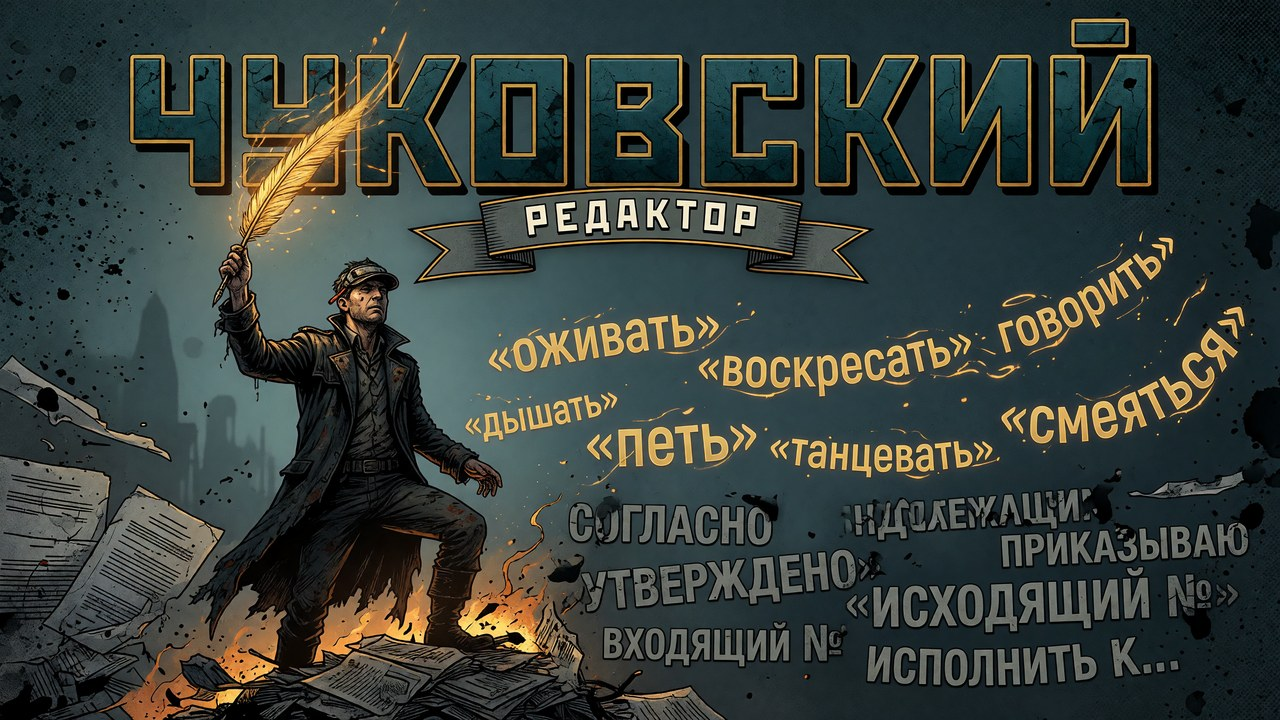
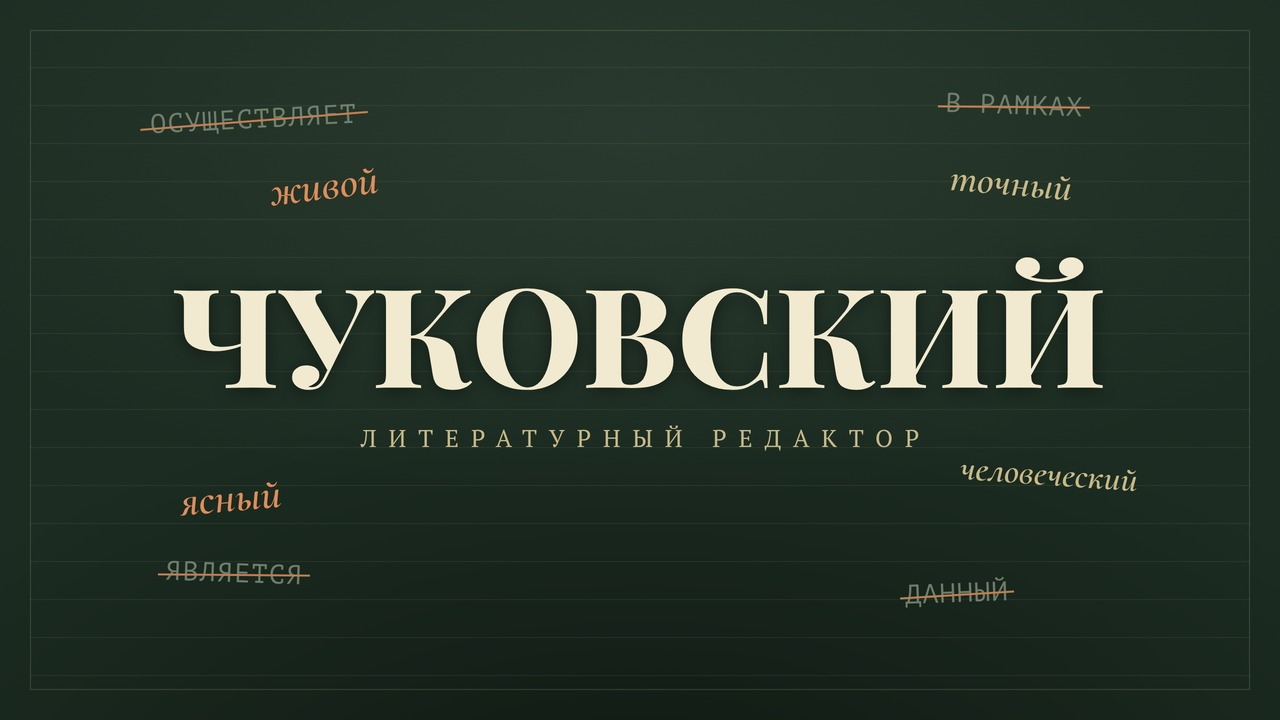
assets: тёмно-зелёная типографская обложка Чуковского + новый hero
Собственная палитра скила (бутылочно-зелёный «переплёт» + разлиновка
рукописи + коралл/золото) — отстраивает Чуковского от Розенталя (navy+red)
и Мильчина (нейтральный крем), оставаясь в общей типографской семье.

- banner.jpg — мастхед «правленая рукопись» (смысл · ясность · голос)
- hero.jpg — комикс заменён на разброс «живые слова vs мёртвые»
- social-preview.jpg — минимал 1280×640 (четыре оси) под GitHub Social

diff --git a/README.md b/README.md
@@ -1,5 +1,5 @@
 <p align="center">
-  <img src="assets/banner.jpg" alt="Чуковский — литературный редактор русского текста: против канцелярита, за живой язык">
+  <img src="assets/banner.jpg" alt="Чуковский — литературный редактор русского текста: смысл, ясность, голос. Живой как жизнь">
 </p>
 
 # Чуковский
@@ -23,8 +23,8 @@
 ```
 
 <p align="center">
-  <img src="assets/hero.jpg" alt="Редактор с золотым пером на руинах из бюрократических документов; над головой парят живые глаголы"><br>
-  <sub><i>«Живой как жизнь» — против канцелярита</i></sub>
+  <img src="assets/hero.jpg" alt="Чуковский — литературный редактор: живые слова (живой, точный, ясный) вместо мёртвых канцелярских (осуществляет, в рамках, является)"><br>
+  <sub><i>Живые слова вместо мёртвых — смысл, ясность, голос</i></sub>
 </p>
 
 ---